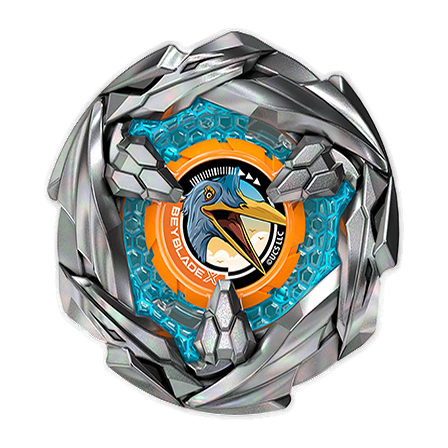
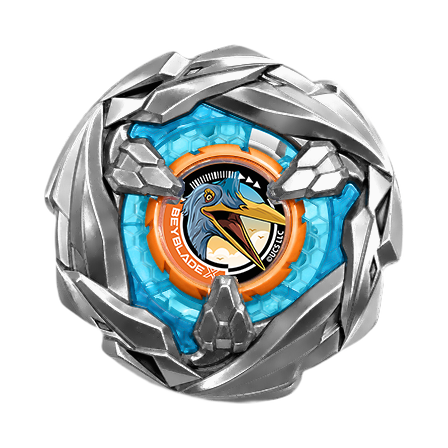
Apply Tyranno Roar and Quetzalcoatlus front images

diff --git a/index.html b/index.html
@@ -484,14 +484,14 @@
         "#app/services": "./src/app-services.js?v=20260714-scroll-affordance-overlay",
         "#app/markup-core": "./src/markup-core.js?v=20260714-scroll-affordance-overlay",
         "#app/anime-core": "./src/anime-core.js?v=20260720-burst-airdate-notes",
-        "#app/data-store": "./src/data-store.js?v=20260809-x-spider-optimus-generated-fronts",
+        "#app/data-store": "./src/data-store.js?v=20260809-x-tyranno-quetzal-generated-fronts",
         "#app/search-data-decoder": "./src/search-data-decoder.js?v=20260720-burst-airdate-notes",
         "#app/ui-core": "./src/ui-core.js?v=20260731-mobile-highlight-fix",
         "#app/release-core": "./src/release-core.js?v=20260731-mobile-highlight-fix",
         "#app/scroll-affordance": "./src/scroll-affordance.js?v=20260719-dropdown-shadow-mounted-label",
         "#app/search-core": "./src/search-core.js?v=20260717-dead-code-cleanup",
         "#app/search-engine": "./src/search-engine.js?v=20260731-mobile-highlight-fix",
-        "#app/catalog-model": "./src/catalog-model.js?v=20260809-x-spider-optimus-generated-fronts",
+        "#app/catalog-model": "./src/catalog-model.js?v=20260809-x-tyranno-quetzal-generated-fronts",
         "#app/collection-view": "./src/collection-view.js?v=20260731-mobile-highlight-fix",
         "#app/catalog-view": "./src/catalog-view.js?v=20260717-dead-code-cleanup",
         "#app/route-parser": "./src/route-parser.js?v=20260714-scroll-affordance-overlay",
@@ -500,7 +500,7 @@
         "#app/search-controller": "./src/search-controller.js?v=20260714-scroll-affordance-overlay",
         "#app/search-help-controller": "./src/search-help-controller.js?v=20260717-dead-code-cleanup",
         "#app/detail-view": "./src/detail-view.js?v=20260803-modal-tag-wheel-edge",
-        "#app/image-preview": "./src/image-preview.js?v=20260809-x-spider-optimus-generated-fronts",
+        "#app/image-preview": "./src/image-preview.js?v=20260809-x-tyranno-quetzal-generated-fronts",
         "#app/modal-context": "./src/modal-context.js?v=20260714-scroll-affordance-overlay",
         "#app/style-loader": "./src/style-loader.js?v=20260804-mobile-modal-scrollbar-centering",
         "#app/feature-loaders": "./src/feature-loaders.js?v=20260717-dead-code-cleanup",

diff --git a/src/data-store.js b/src/data-store.js
@@ -8,7 +8,7 @@ const bookItems = [];
 const gameItems = [];
 const animeInfo = { title: "", overview: [], characters: [], episodes: [] };
 const searchIndexItems = [];
-const X_ASSET_CACHE_VERSION = "20260809-x-spider-optimus-generated-fronts";
+const X_ASSET_CACHE_VERSION = "20260809-x-tyranno-quetzal-generated-fronts";
 
 const versionAssetUrl = source => {
   const value = String(source || "");

diff --git a/scripts/normalize-x-bey-front-images.py b/scripts/normalize-x-bey-front-images.py
@@ -16,7 +16,7 @@ from PIL import Image
 
 CONFIG_PATH = Path("data/source/x-bey-primary-images.json")
 ANGLE_CONFIG_PATH = Path("data/source/x-bey-angle-corrections.json")
-CONFIG_VERSION = "20260809-x-spider-optimus-generated-fronts"
+CONFIG_VERSION = "20260809-x-tyranno-quetzal-generated-fronts"
 CANVAS_SIZE = 448
 TARGET_FOREGROUND_SIZE = 360
 ALPHA_THRESHOLD = 3
@@ -152,8 +152,8 @@ def main() -> int:
     validate_policy(config)
 
     entries = config_entries(config)
-    if len(entries) != 208:
-        raise ValueError(f"expected 208 front-view Beys, found {len(entries)}")
+    if len(entries) != 210:
+        raise ValueError(f"expected 210 front-view Beys, found {len(entries)}")
     ids = [entry["id"] for entry in entries]
     paths = [entry["image"] for entry in entries]
     if len(set(ids)) != len(ids) or len(set(paths)) != len(paths):

diff --git a/scripts/record-x-image-alpha-review.py b/scripts/record-x-image-alpha-review.py
@@ -14,7 +14,7 @@ from PIL import Image
 CANVAS_SIZE = 448
 MIN_MARGIN = 6
 MAX_FOREGROUND_SIZE = CANVAS_SIZE - MIN_MARGIN * 2
-REVIEW_VERSION = "20260809-x-spider-optimus-generated-fronts"
+REVIEW_VERSION = "20260809-x-tyranno-quetzal-generated-fronts"
 
 
 def parse_args() -> argparse.Namespace:

diff --git a/scripts/build-x-bey-angle-corrections.py b/scripts/build-x-bey-angle-corrections.py
@@ -115,7 +115,7 @@ SUPPLIED_FRONT_IDS = {
     "BEY-X-UX-19-BULLET-GRIFFON-H",
     "BEY-X-UX-20-GLORY-VALKYRIE-LF",
 }
-CONFIG_VERSION = "20260809-x-spider-optimus-generated-fronts"
+CONFIG_VERSION = "20260809-x-tyranno-quetzal-generated-fronts"
 
 
 def parse_args() -> argparse.Namespace:
